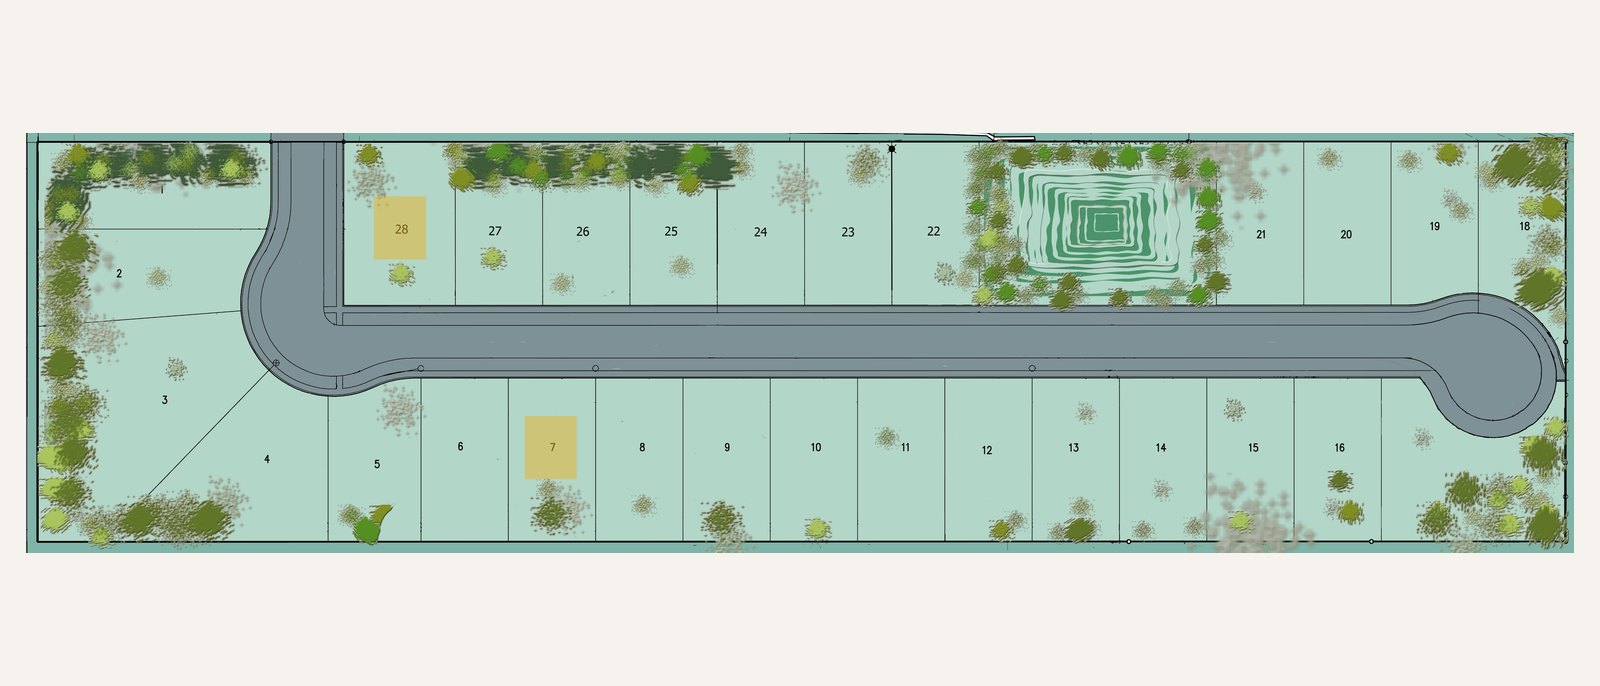
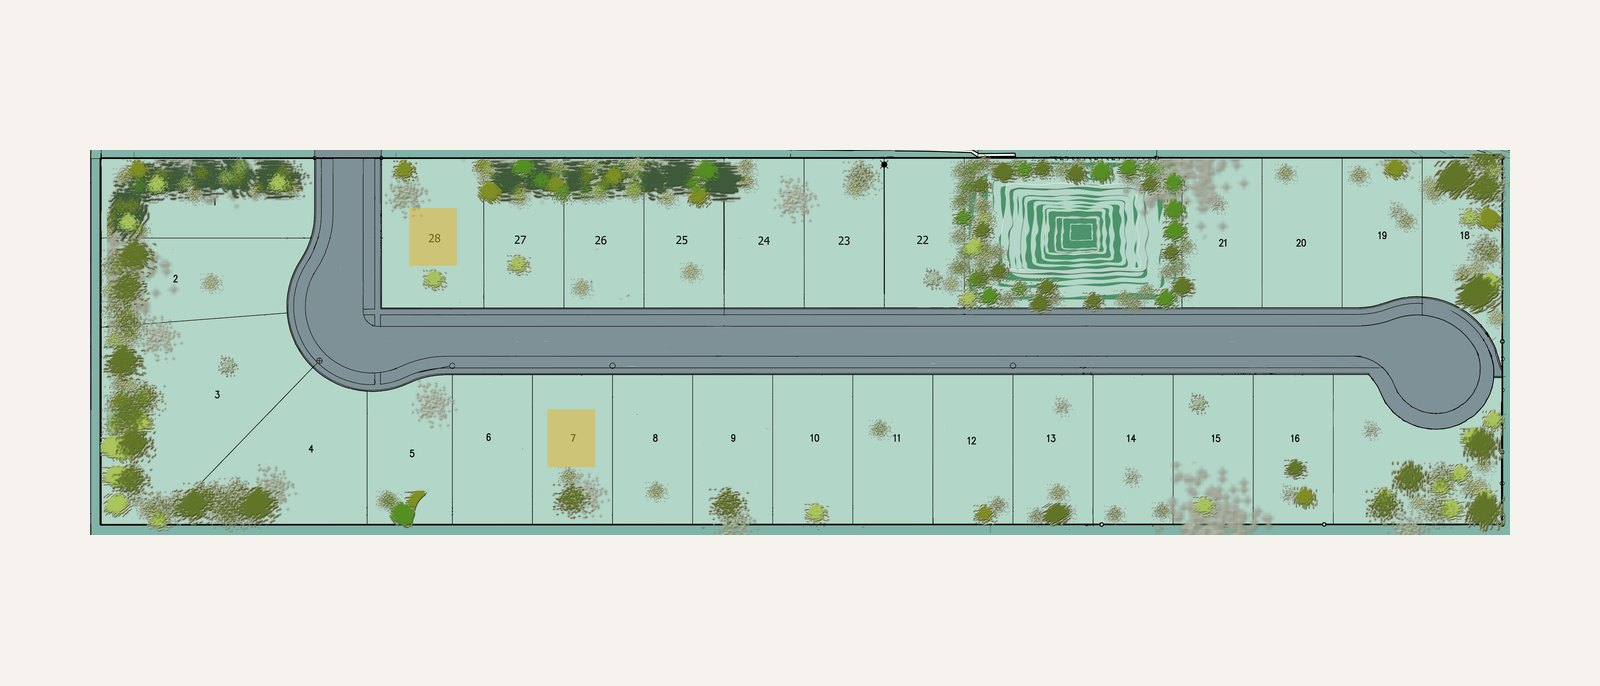
Inner pages: full-width hero with page title over the slideshow, like home
Claude-Session: https://claude.ai/code/session_01A4gCbcwvGxdGd96NywQWgv

diff --git a/centrale-realty-website-rebuild-2026/site/for-sale/vacant-land-for-sale/index.html b/centrale-realty-website-rebuild-2026/site/for-sale/vacant-land-for-sale/index.html
@@ -17,7 +17,7 @@
   <link rel="apple-touch-icon" href="../../assets/apple-touch-icon.png">
   <link rel="stylesheet" href="../../styles.css">
 </head>
-<body class="inner">
+<body class="inner overlay">
   <a class="skip" href="#main">Skip to content</a>
   <div class="topbar"><div class="wrap"><span class="addr">2490 Walton Boulevard, Ste 103, Rochester Hills, MI 48309</span><a href="tel:+12486568830">(248) 656-8830</a><a href="mailto:info@centralerealty.com">info@centralerealty.com</a></div></div>
   <header class="site-header">
@@ -30,9 +30,8 @@
     </div>
   </header>
   <main id="main">
-    <section class="page-title"><h1>Property &amp; <em>Vacant Land</em></h1></section>
+    <section class="hero page-hero" aria-labelledby="page-title"><div class="slides"><img src="../../assets/images/slide-land-aerial.jpg" alt="Aerial view of vacant land beside a neighborhood" width="1600" height="686"><img src="../../assets/images/slide-falcon-site-plan.jpg" alt="Falcon Estates site plan" width="1600" height="686" loading="lazy"><img src="../../assets/images/slide-pine-woods-site-plan.jpg" alt="Pine Woods site plan, Rochester Hills" width="1600" height="686" loading="lazy"><img src="../../assets/images/slide-pine-woods.jpg" alt="Heritage home at twilight in Pine Woods" width="1600" height="686" loading="lazy"><img src="../../assets/images/slide-falcon-estates.jpg" alt="Brick and stone home in Falcon Estates" width="1600" height="686" loading="lazy"></div><div class="hero-copy"><h1 id="page-title">Property &amp; <em>Vacant Land</em></h1></div></section>
     <section class="page-body">
-      <figure class="banner wrap slides"><img src="../../assets/images/slide-land-aerial.jpg" alt="Aerial view of vacant land beside a neighborhood" width="1600" height="686"><img src="../../assets/images/slide-falcon-site-plan.jpg" alt="Falcon Estates site plan" width="1600" height="686" loading="lazy"><img src="../../assets/images/slide-pine-woods-site-plan.jpg" alt="Pine Woods site plan, Rochester Hills" width="1600" height="686" loading="lazy"><img src="../../assets/images/slide-pine-woods.jpg" alt="Heritage home at twilight in Pine Woods" width="1600" height="686" loading="lazy"><img src="../../assets/images/slide-falcon-estates.jpg" alt="Brick and stone home in Falcon Estates" width="1600" height="686" loading="lazy"></figure>
       <div class="wrap"><div class="prose">
       <h2>Build to Suit <em>Properties</em></h2>
     <p>Looking for a peaceful setting with city conveniences? Falcon Estates Subdivision, also known as Sherwood Forest Estates, in beautiful Rochester Hills may be just what you are looking for. This luxury development is meant for busy individuals and families who want quiet surroundings close to I-75, M-59, Chrysler Headquarters, Oakland University, Meadowbrook Theatre, Village of Rochester Hills shopping and major job hubs.</p>

diff --git a/centrale-realty-website-rebuild-2026/site/for-sale/index.html b/centrale-realty-website-rebuild-2026/site/for-sale/index.html
@@ -17,7 +17,7 @@
   <link rel="apple-touch-icon" href="../assets/apple-touch-icon.png">
   <link rel="stylesheet" href="../styles.css">
 </head>
-<body class="inner">
+<body class="inner overlay">
   <a class="skip" href="#main">Skip to content</a>
   <div class="topbar"><div class="wrap"><span class="addr">2490 Walton Boulevard, Ste 103, Rochester Hills, MI 48309</span><a href="tel:+12486568830">(248) 656-8830</a><a href="mailto:info@centralerealty.com">info@centralerealty.com</a></div></div>
   <header class="site-header">
@@ -30,9 +30,8 @@
     </div>
   </header>
   <main id="main">
-    <section class="page-title"><h1>Homes <em>For Sale</em></h1></section>
+    <section class="hero page-hero" aria-labelledby="page-title"><div class="slides"><img src="../assets/images/slide-grandeur-aerial.jpg" alt="Twilight aerial view of The Grandeur" width="1600" height="686"><img src="../assets/images/slide-majestic.jpg" alt="The Majestic at twilight" width="1600" height="686" loading="lazy"><img src="../assets/images/slide-crestwood-aerial.jpg" alt="Twilight aerial view of The Crestwood" width="1600" height="686" loading="lazy"></div><div class="hero-copy"><h1 id="page-title">Homes <em>For Sale</em></h1></div></section>
     <section class="page-body">
-      <figure class="banner wrap slides"><img src="../assets/images/slide-grandeur-aerial.jpg" alt="Twilight aerial view of The Grandeur" width="1600" height="686"><img src="../assets/images/slide-majestic.jpg" alt="The Majestic at twilight" width="1600" height="686" loading="lazy"><img src="../assets/images/slide-crestwood-aerial.jpg" alt="Twilight aerial view of The Crestwood" width="1600" height="686" loading="lazy"></figure>
       <div class="wrap"><div class="prose">
       <p>Looking for a home in the Metro Detroit area? Contact one of our agents. We will be glad to meet with you and do a personalized search based on your desires and needs.</p>
     <p>Whether you are relocating to the area or just looking for a new home, let one of our agents put their knowledge of the area to work for you. From luxury homes in Rochester Hills to homes in Macomb Twp, Troy, Birmingham, Royal Oak and Sterling Heights, just to name a few areas, we will help you find the home of your dreams.</p>

diff --git a/centrale-realty-website-rebuild-2026/site/for-lease/index.html b/centrale-realty-website-rebuild-2026/site/for-lease/index.html
@@ -17,7 +17,7 @@
   <link rel="apple-touch-icon" href="../assets/apple-touch-icon.png">
   <link rel="stylesheet" href="../styles.css">
 </head>
-<body class="inner">
+<body class="inner overlay">
   <a class="skip" href="#main">Skip to content</a>
   <div class="topbar"><div class="wrap"><span class="addr">2490 Walton Boulevard, Ste 103, Rochester Hills, MI 48309</span><a href="tel:+12486568830">(248) 656-8830</a><a href="mailto:info@centralerealty.com">info@centralerealty.com</a></div></div>
   <header class="site-header">
@@ -30,9 +30,8 @@
     </div>
   </header>
   <main id="main">
-    <section class="page-title"><h1>Properties <em>For Lease</em></h1></section>
+    <section class="hero page-hero" aria-labelledby="page-title"><div class="slides"><img src="../assets/images/duplex-banner.jpg" alt="Brick duplex with attached two-car garages" width="1600" height="686"><img src="../assets/images/slide-lease-kitchen.jpg" alt="Bright kitchen with gold hardware" width="1600" height="686" loading="lazy"><img src="../assets/images/slide-lease-suite.jpg" alt="Primary suite with coffered ceiling" width="1600" height="686" loading="lazy"></div><div class="hero-copy"><h1 id="page-title">Properties <em>For Lease</em></h1></div></section>
     <section class="page-body">
-      <figure class="banner wrap slides"><img src="../assets/images/duplex-banner.jpg" alt="Brick duplex with attached two-car garages" width="1600" height="686"><img src="../assets/images/slide-lease-kitchen.jpg" alt="Bright kitchen with gold hardware" width="1600" height="686" loading="lazy"><img src="../assets/images/slide-lease-suite.jpg" alt="Primary suite with coffered ceiling" width="1600" height="686" loading="lazy"></figure>
       <div class="wrap"><div class="prose">
       <p>We specialize in Metro Detroit area rentals. Whether you are relocating to the area or just looking for a new place to call home, one of our agents will be glad to help.</p>
     <p>From our luxury corporate housing in Rochester Hills to our duplexes and townhomes in Shelby Twp and Chesterfield Twp, all offer premium features such as 3 to 4 bedrooms, full basements, 1 to 3 car garages and much more.</p>

diff --git a/centrale-realty-website-rebuild-2026/site/construction-services/index.html b/centrale-realty-website-rebuild-2026/site/construction-services/index.html
@@ -17,7 +17,7 @@
   <link rel="apple-touch-icon" href="../assets/apple-touch-icon.png">
   <link rel="stylesheet" href="../styles.css">
 </head>
-<body class="inner">
+<body class="inner overlay">
   <a class="skip" href="#main">Skip to content</a>
   <div class="topbar"><div class="wrap"><span class="addr">2490 Walton Boulevard, Ste 103, Rochester Hills, MI 48309</span><a href="tel:+12486568830">(248) 656-8830</a><a href="mailto:info@centralerealty.com">info@centralerealty.com</a></div></div>
   <header class="site-header">
@@ -30,9 +30,8 @@
     </div>
   </header>
   <main id="main">
-    <section class="page-title"><h1>Construction <em>Services</em></h1></section>
+    <section class="hero page-hero" aria-labelledby="page-title"><div class="slides"><img src="../assets/images/slide-con-foundation.jpg" alt="Aerial view of a new home foundation with poured walls before framing" width="1600" height="686"><img src="../assets/images/slide-con-telehandler.jpg" alt="Telehandler lifting masonry to scaffolding at a home under construction" width="1600" height="686" loading="lazy"><img src="../assets/images/slide-con-new.jpg" alt="Aerial view of a finished custom home" width="1600" height="686" loading="lazy"></div><div class="hero-copy"><h1 id="page-title">Construction <em>Services</em></h1></div></section>
     <section class="page-body">
-      <figure class="banner wrap slides"><img src="../assets/images/slide-con-foundation.jpg" alt="Aerial view of a new home foundation with poured walls before framing" width="1600" height="686"><img src="../assets/images/slide-con-telehandler.jpg" alt="Telehandler lifting masonry to scaffolding at a home under construction" width="1600" height="686" loading="lazy"><img src="../assets/images/slide-con-new.jpg" alt="Aerial view of a finished custom home" width="1600" height="686" loading="lazy"></figure>
       <div class="wrap"><div class="prose">
       <p>Specializing in new construction and luxury construction across the Metro Detroit area, on your site or ours.</p>
     <ul>

diff --git a/centrale-realty-website-rebuild-2026/site/styles.css b/centrale-realty-website-rebuild-2026/site/styles.css
@@ -56,8 +56,8 @@ p{margin:0 0 1.1rem}
 .nav-contact{display:none}
 .menu-toggle,.burger{display:none}
 .site-header .btn{padding:.9rem 1.6rem;color:#fff}
-.home .site-header{position:absolute;inset:auto 0 auto 0;background:linear-gradient(180deg,rgba(0,0,0,.72),rgba(0,0,0,0));border-bottom:0}
-.home .topbar{position:relative;z-index:31;background:rgba(0,0,0,.55)}
+.home .site-header,.overlay .site-header{position:absolute;inset:auto 0 auto 0;background:linear-gradient(180deg,rgba(0,0,0,.72),rgba(0,0,0,0));border-bottom:0}
+.home .topbar,.overlay .topbar{position:relative;z-index:31;background:rgba(0,0,0,.55)}
 
 /* Home hero with video */
 .hero{position:relative;min-height:clamp(560px,100vh,900px);display:grid;place-items:center;text-align:center;color:#fff;background:#000;overflow:hidden;isolation:isolate}
@@ -122,7 +122,11 @@ p{margin:0 0 1.1rem}
 .page-body{padding-block:clamp(40px,6vw,88px);background:var(--cream)}
 .banner{margin:0 auto clamp(28px,4vw,56px)}
 .slides{position:relative;aspect-ratio:1600/686;overflow:hidden;background:#000}
-.slides img{position:absolute;inset:0;height:100%;opacity:0;animation:slidefade 15s infinite}
+.page-hero{min-height:clamp(440px,64vh,640px)}
+.page-hero .hero-copy{padding:170px var(--gutter) 80px}
+.page-hero h1{font-size:clamp(2.2rem,5vw,4rem)}
+.page-hero .slides{position:absolute;inset:0;aspect-ratio:auto;z-index:-2}
+.slides img{position:absolute;inset:0;width:100%;height:100%;object-fit:cover;opacity:0;animation:slidefade 15s infinite}
 .slides img:nth-child(2){animation-delay:5s}.slides img:nth-child(3){animation-delay:10s}
 @keyframes slidefade{0%{opacity:0}7%{opacity:1}33%{opacity:1}40%{opacity:0}100%{opacity:0}}
 .banner img,.banner video{display:block;width:100%;aspect-ratio:1600/686;object-fit:cover;background:#000}

diff --git a/centrale-realty-website-rebuild-2026/site/commercial-space/index.html b/centrale-realty-website-rebuild-2026/site/commercial-space/index.html
@@ -17,7 +17,7 @@
   <link rel="apple-touch-icon" href="../assets/apple-touch-icon.png">
   <link rel="stylesheet" href="../styles.css">
 </head>
-<body class="inner">
+<body class="inner overlay">
   <a class="skip" href="#main">Skip to content</a>
   <div class="topbar"><div class="wrap"><span class="addr">2490 Walton Boulevard, Ste 103, Rochester Hills, MI 48309</span><a href="tel:+12486568830">(248) 656-8830</a><a href="mailto:info@centralerealty.com">info@centralerealty.com</a></div></div>
   <header class="site-header">
@@ -30,9 +30,8 @@
     </div>
   </header>
   <main id="main">
-    <section class="page-title"><h1>Commercial <em>Space</em></h1></section>
+    <section class="hero page-hero" aria-labelledby="page-title"><img src="../assets/images/office-banner.jpg" alt="Two-storey brick and stone office building at 2490 Walton Boulevard, Rochester Hills" width="1600" height="686"><div class="hero-copy"><h1 id="page-title">Commercial <em>Space</em></h1></div></section>
     <section class="page-body">
-      <figure class="banner wrap"><img src="../assets/images/office-banner.jpg" alt="Two-storey brick and stone office building at 2490 Walton Boulevard, Rochester Hills" width="1600" height="686"></figure>
       <div class="wrap"><div class="prose">
       <p>We offer Metro Detroit area commercial properties. If you are looking for office space near Automation Alley, with close proximity to I-75, M-59, Chrysler Headquarters and most major job hubs, take a look at what we have to offer in Rochester Hills and Auburn Hills.</p>
     <p>For other properties and areas, contact one of our agents to conduct a search to meet your needs.</p>

diff --git a/centrale-realty-website-rebuild-2026/site/contact-us/index.html b/centrale-realty-website-rebuild-2026/site/contact-us/index.html
@@ -32,7 +32,6 @@
   <main id="main">
     <section class="page-title"><h1>Contact <em>Us</em></h1></section>
     <section class="page-body">
-      
       <div class="wrap"><div class="prose">
       <address>Centrale Realty, Inc.<br>2490 Walton Boulevard, Ste 103, Rochester Hills, MI 48309<br>Office: <a href="tel:+12486568830">248.656.8830</a><br>Fax: 248.694.9344<br>Email: <a href="mailto:info@centralerealty.com">info@centralerealty.com</a></address>
     <p><a class="btn" href="mailto:info@centralerealty.com">Email us</a></p>

diff --git a/centrale-realty-website-rebuild-2026/site/terms-of-use/index.html b/centrale-realty-website-rebuild-2026/site/terms-of-use/index.html
@@ -32,7 +32,6 @@
   <main id="main">
     <section class="page-title"><h1>Terms <em>of Use</em></h1></section>
     <section class="page-body">
-      
       <div class="wrap"><div class="prose">
       <p><em>Last updated: October 2, 2026</em></p>
     <p>Please read these Terms of Use (the &ldquo;Terms&rdquo;) carefully. By accessing or using centralerealty.com, including its mobile version and any related tools or services (the &ldquo;Site&rdquo;), you agree to these Terms. If you do not agree, please do not use the Site.</p>

diff --git a/centrale-realty-website-rebuild-2026/site/legal/index.html b/centrale-realty-website-rebuild-2026/site/legal/index.html
@@ -32,7 +32,6 @@
   <main id="main">
     <section class="page-title"><h1><em>Legal</em></h1></section>
     <section class="page-body">
-      
       <div class="wrap"><div class="prose">
       <p><em>Last updated: October 2, 2026</em></p>
     <h2>Brokerage <em>information</em></h2>
